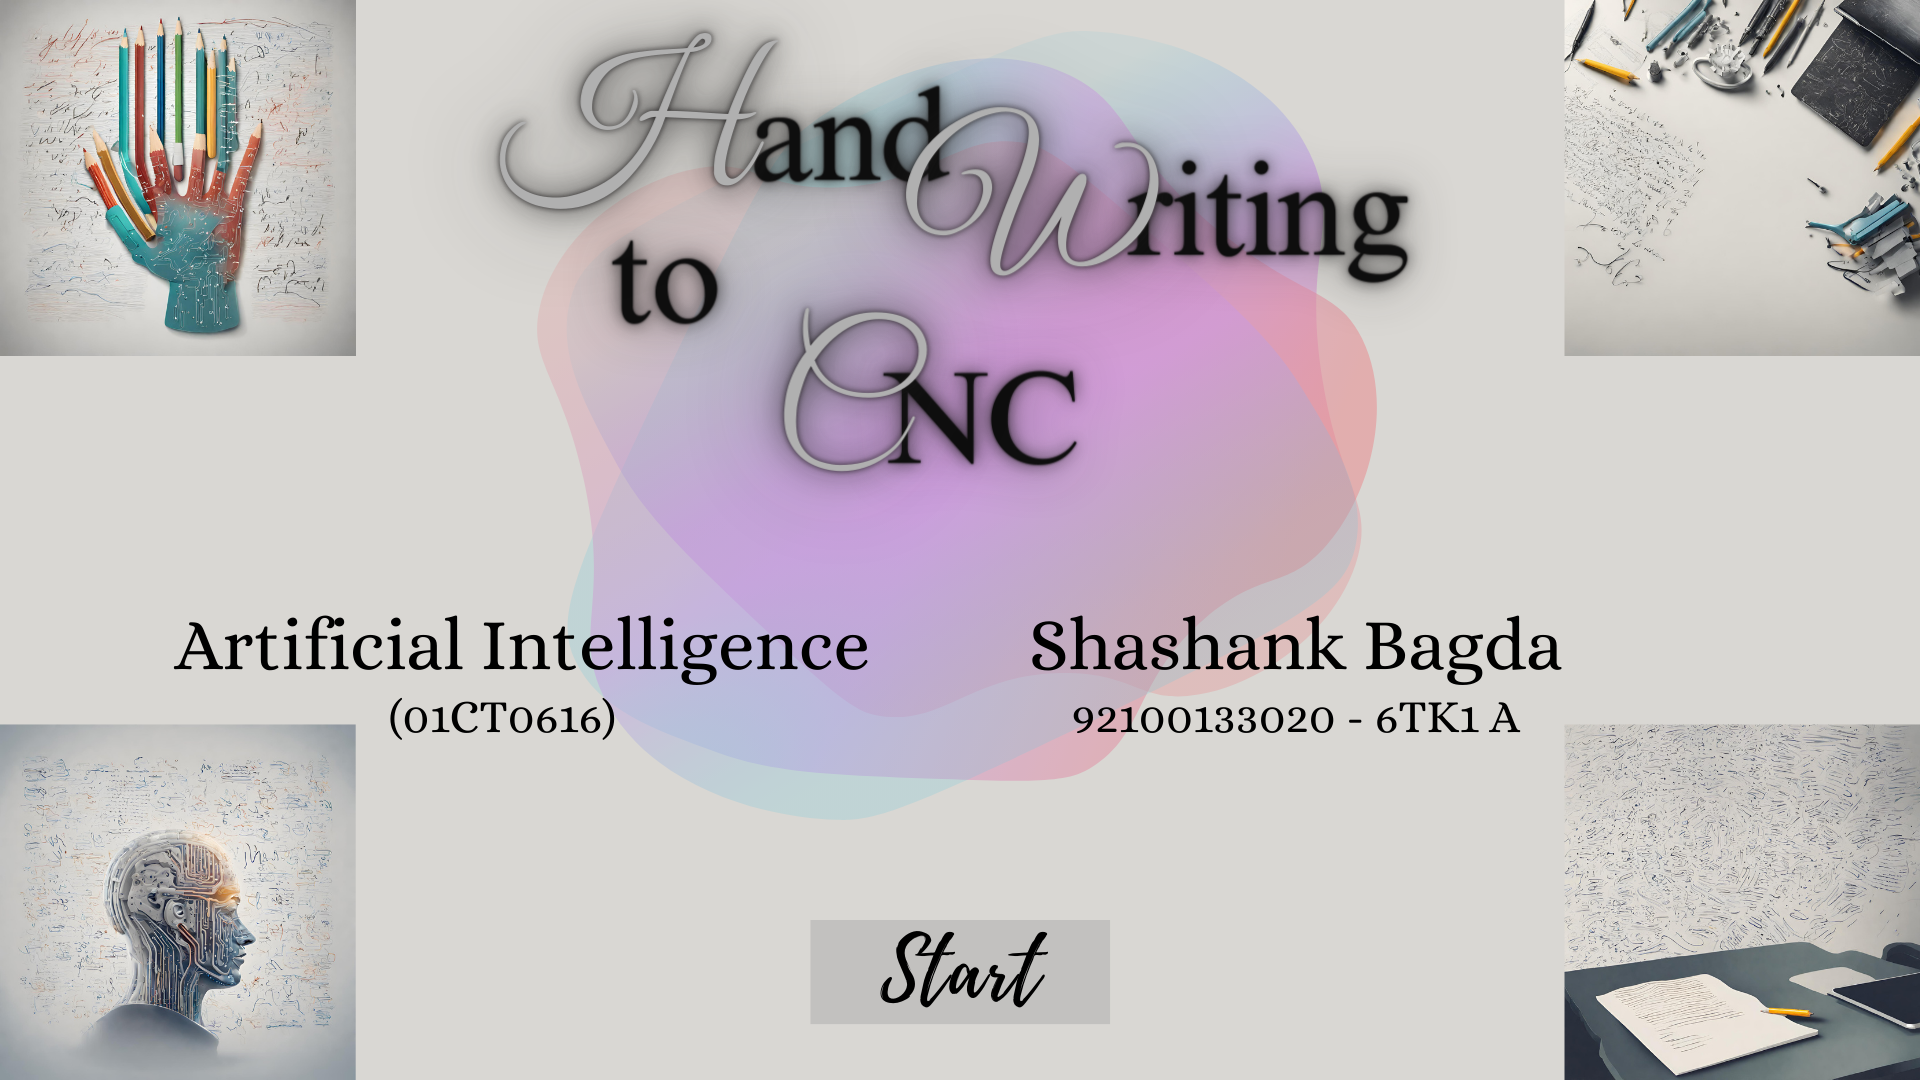
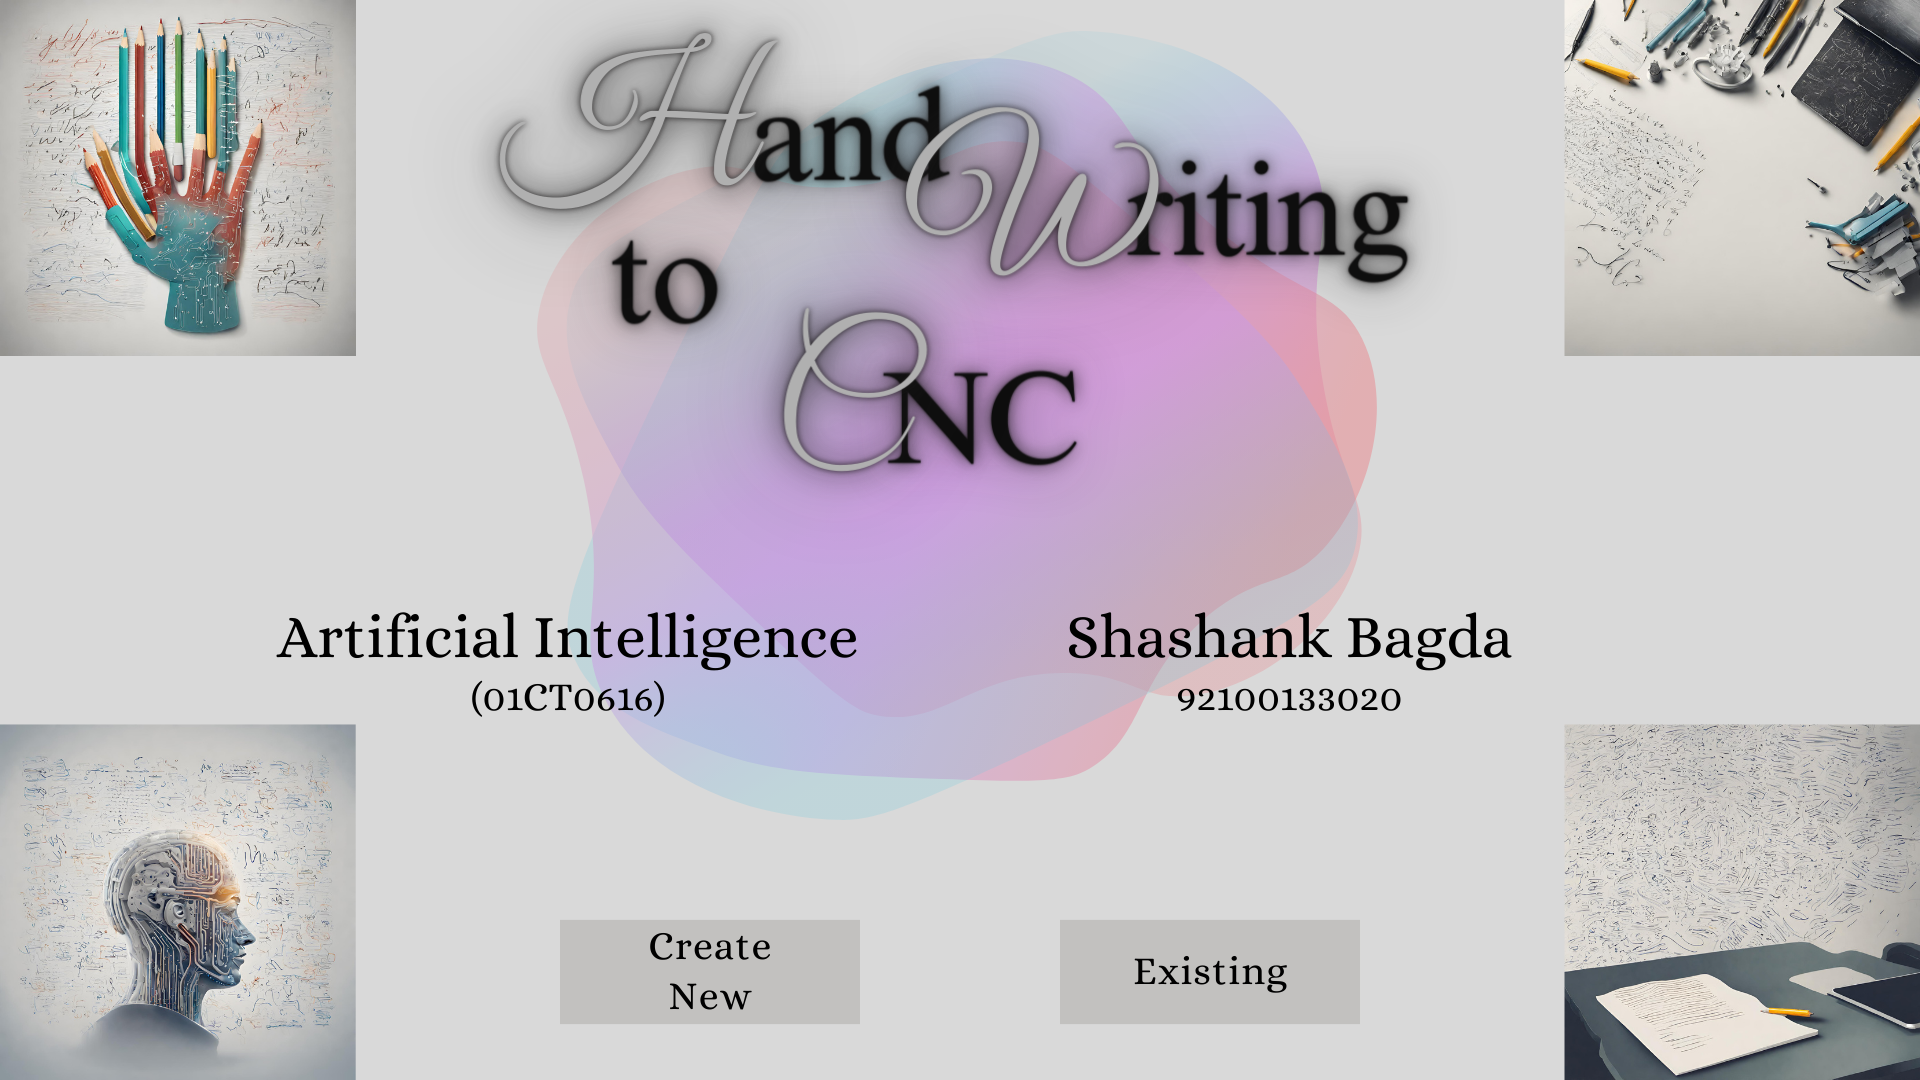
.

diff --git a/Main.java b/Main.java
@@ -11,8 +11,8 @@ import javax.swing.filechooser.FileNameExtensionFilter;
 
 
 public class Main extends JFrame implements ActionListener {
-    private JButton startButton;
-    private JFrame processFrame;
+    private JButton createNew, existingButton;
+    private JFrame processFrame, existingFrame;
 
     public Main() {
         setTitle("Main Frame");
@@ -22,15 +22,23 @@ public class Main extends JFrame implements ActionListener {
         // Set background image
         setContentPane(new JLabel(new ImageIcon("Graphics/background.png")));
 
-        // // Create Start button with image
-        startButton = new JButton();
-        startButton.setBorderPainted(true);
-        startButton.setContentAreaFilled(false);
-        startButton.addActionListener(this);
-        startButton.setBounds(810, 860, 300, 100);
-
+        // Create Create New button with image
+        createNew = new JButton();
+        createNew.setBorderPainted(true);
+        createNew.setContentAreaFilled(false);
+        createNew.addActionListener(this);
+        createNew.setBounds(560, 860, 300, 100);
         // Add Start button to the frame
-        add(startButton, BorderLayout.CENTER);
+        add(createNew, BorderLayout.CENTER);
+
+        // Create Existing button with image
+        existingButton = new JButton();
+        existingButton.setBorderPainted(true);
+        existingButton.setContentAreaFilled(false);
+        existingButton.addActionListener(this);
+        existingButton.setBounds(1060, 860, 300, 100);
+        // Add Start button to the frame
+        add(existingButton, BorderLayout.CENTER);
 
         // Maximize the frame by default
         setExtendedState(JFrame.MAXIMIZED_BOTH);
@@ -38,6 +46,7 @@ public class Main extends JFrame implements ActionListener {
         setDefaultCloseOperation(JFrame.EXIT_ON_CLOSE);
         setLocationRelativeTo(null);
         setVisible(true);
+        setResizable(false);
 
         // Add ComponentListener to adjust background image on resize
         addComponentListener(new ComponentAdapter() {
@@ -51,15 +60,56 @@ public class Main extends JFrame implements ActionListener {
     }
 
     public void actionPerformed(ActionEvent e) {
-        if (e.getSource() == startButton) {
+        if (e.getSource() == createNew) {
             processFrame = new ProcessFrame();
             processFrame.setVisible(true);
+            dispose(); // Close Main Frame
+        }
+        if (e.getSource() == existingButton) {
+            existingFrame = new existingFrame();
+            existingFrame.setVisible(true);
             dispose(); // Close Main Frame
         }
     }
 
     public static void main(String[] args) {
         new Main();
+    }
+}
+
+class existingFrame extends JFrame implements ActionListener
+{
+    public existingFrame()
+    {
+        setTitle("Existing Data Frame");
+        setLayout(new BorderLayout());
+        // setResizable(false);
+        // setUndecorated(true);
+
+        // Set background image
+        setContentPane(new JLabel(new ImageIcon("Graphics/menu.png")));
+
+        // Maximize the frame by default
+        setExtendedState(JFrame.MAXIMIZED_BOTH);
+
+        setDefaultCloseOperation(JFrame.EXIT_ON_CLOSE);
+        setLocationRelativeTo(null);
+        setVisible(true);
+
+        addComponentListener(new ComponentAdapter() {
+            @Override
+            public void componentResized(ComponentEvent e) {
+                super.componentResized(e);
+                JLabel label = (JLabel) getContentPane();
+                label.setIcon(new ImageIcon(new ImageIcon("Graphics/menu.png").getImage().getScaledInstance(getWidth(), getHeight(), Image.SCALE_SMOOTH)));
+            }
+        });
+    }
+
+    @Override
+    public void actionPerformed(ActionEvent e) {
+        // TODO Auto-generated method stub
+        throw new UnsupportedOperationException("Unimplemented method 'actionPerformed'");
     }
 }
 
@@ -79,6 +129,8 @@ class ProcessFrame extends JFrame implements ActionListener {
     public ProcessFrame() {
         setTitle("Process Frame");
         setLayout(new BorderLayout());
+        // setResizable(false);
+        // setUndecorated(true);
 
         // Set background image
         setContentPane(new JLabel(new ImageIcon("Graphics/menu.png")));
@@ -821,7 +873,7 @@ class ProcessFrame extends JFrame implements ActionListener {
             publish(0);
             Thread.sleep(1000);
     
-            executePythonScript("main.py");
+            executePythonScript("extractor.py");
             publish(25);
             Thread.sleep(1000);
     
